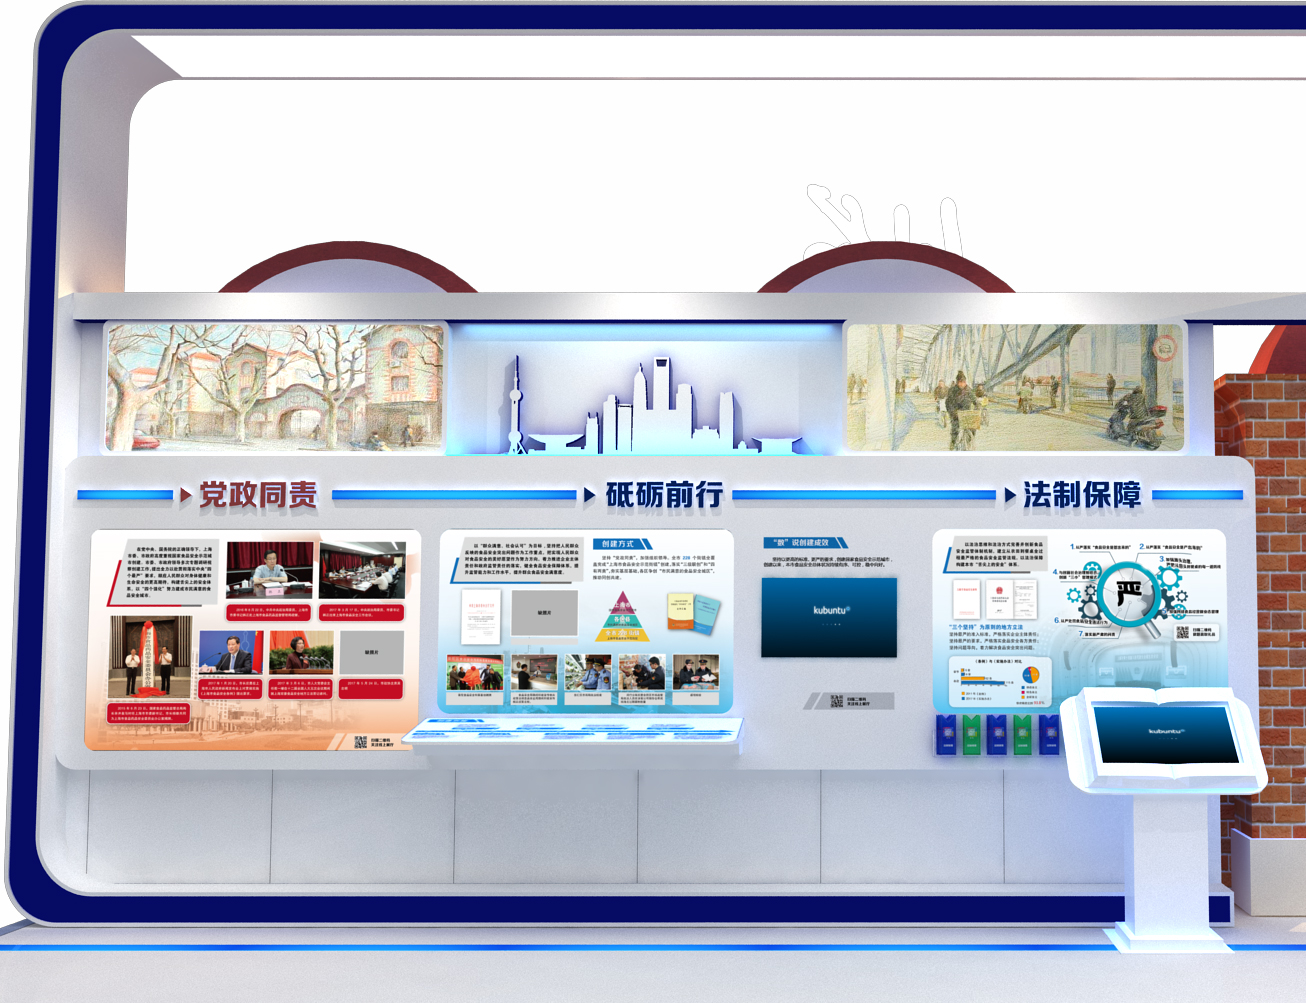
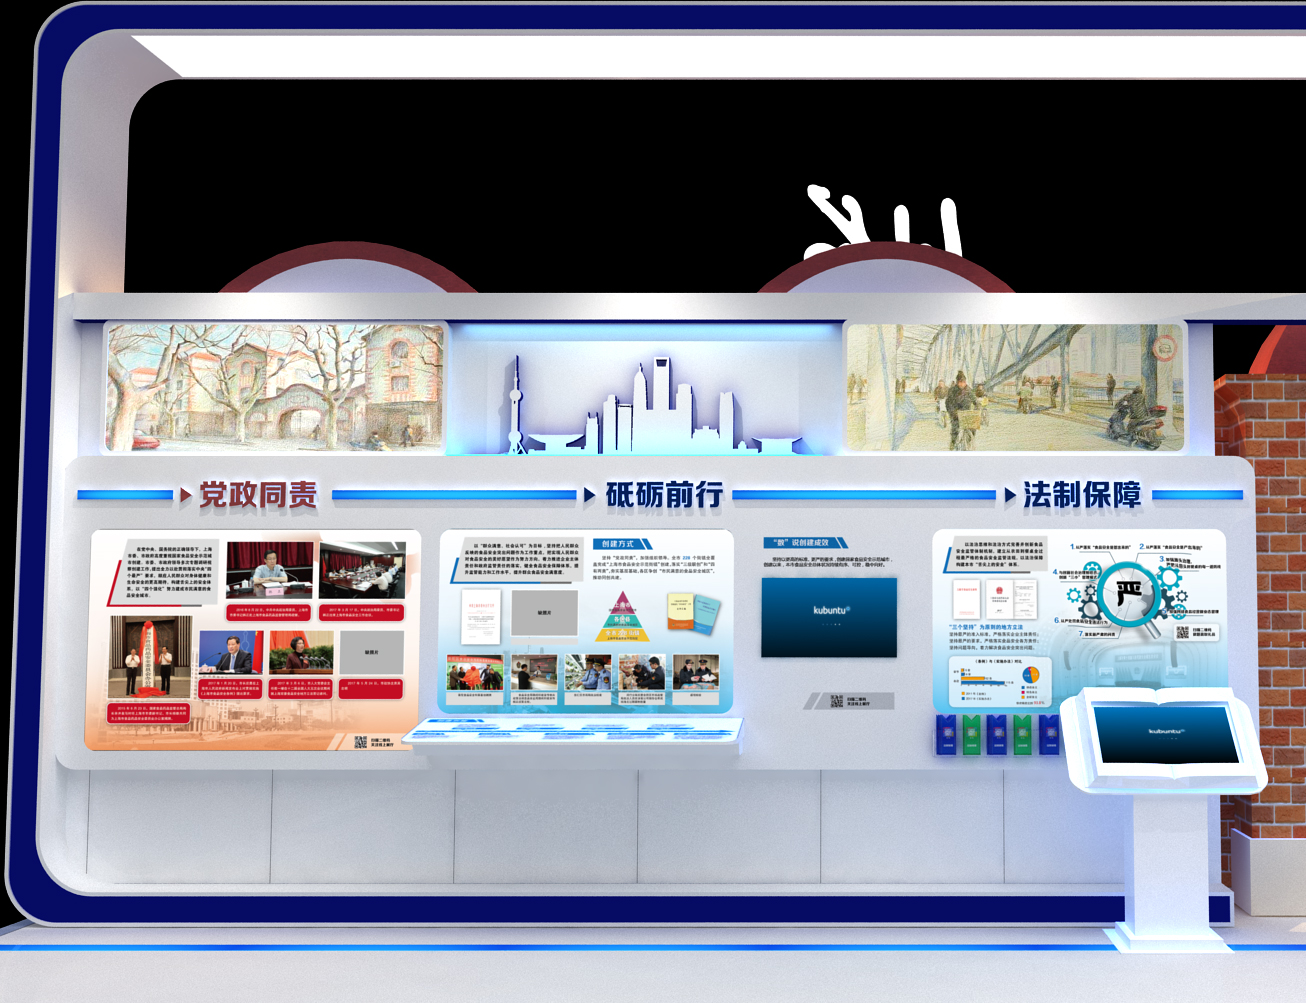
3.5

Changed region(s): [[0.0919, 0.0618, 1.0, 0.3709], [0.0, 0.0, 0.0613, 0.9272]]

diff --git a/shuanganshuangchuangTest/mainCss/main.css b/shuanganshuangchuangTest/mainCss/main.css
@@ -1,0 +1,109 @@
+*{
+    box-sizing: border-box;
+    margin: 0;
+    padding: 0;
+}
+
+
+html {
+    font-size: 16px;
+    height: 100%;
+    font-family: "microsoft yahei";
+    overflow: hidden;
+}
+
+
+.hidden{
+    display: none !important;
+}
+
+.displayFlex{
+    display: -webkit-box;
+    display: -ms-flexbox;
+    display: flex;
+}
+
+.clearFloat:before,.clearFloat:after{
+    display:table;
+    content: "";
+}
+
+.clearFloat:after{
+    clear:both;
+}
+
+a{
+    text-decoration:none;
+    color:inherit;
+}
+
+a:hover{
+    text-decoration:none;
+    color:inherit;
+}
+
+a:active{
+    text-decoration:none;
+    color:inherit;
+}
+
+a:visited{
+    text-decoration:none;
+    color:inherit;
+}
+
+
+
+@media (min-width: 376px) {
+    html {
+        font-size: 18px;
+    }
+}
+
+@media (min-width: 361px) and (max-width: 375px) {
+    html {
+        font-size: 16px;
+
+    }
+}
+
+@media (min-width: 321px) and (max-width: 360px) {
+    html {
+        font-size: 15px;
+
+    }
+}
+
+@media (max-width: 320px) {
+    html {
+        font-size: 13px;
+    }
+}
+
+.partStyle {
+    position: absolute;
+    width: 7rem;
+    height: 7rem;
+    background-color: rgba(0, 110, 246, 0.4);
+    text-align: center;
+    border-radius: 10rem;
+    z-index:100;
+}
+
+.partInnerStyle {
+    position: absolute;
+    width: 6rem;
+    height: 6rem;
+    line-height: 1.5rem;
+    text-align: center;
+    border-radius: 4rem;
+    color: #fff;
+    font-size: 1rem;
+    left: 50%;
+    top: 50%;
+    margin-top: -3rem;
+    margin-left: -3rem;
+    background-color: rgba(0, 110, 246, 1);
+    padding:1.5rem 0;
+    box-sizing: border-box;
+}

diff --git a/shuanganshuangchuangTest/step2.html b/shuanganshuangchuangTest/step2.html
@@ -6,11 +6,16 @@
     <meta name="viewport"
           content="width=device-width,initial-scale=1, minimum-scale=1, maximum-scale=1, user-scalable=no,target-densitydpi=device-dpi"/>
     <title>展台全景图</title>
+    <link rel="stylesheet" href="mainCss/main.css">
     <link rel="stylesheet" href="step2.css">
     <script src="jslib/jquery-1.11.3.min.js"></script>
     <script src="step2.js"></script>
 </head>
 <body>
+<div class="shadowPanel">
+    <img class="shadowImg" src="img/loadingImg.png">
+    <div class="shadowLoading"><span>Loading</span><img src="img/loadingGif.gif"></div>
+</div>
 <div class="mainContainer">
     <div class="mainOutter onShow">
         <div class="imgPart">
@@ -23,6 +28,26 @@
     <div class="mainOutter">
         <div class="imgPart">
             <img id="bgImg2" class="bgImg" src="img/c2.jpg">
+            <div class="point1 pointStyle"></div>
+            <div class="leftArrow arrowStyle"> < </div>
+
+            <div class="rightArrow arrowStyle"> > </div>
+
+        </div>
+    </div>
+    <div class="mainOutter">
+        <div class="imgPart">
+            <img id="bgImg3" class="bgImg" src="img/c3.jpg">
+            <div class="point1 pointStyle"></div>
+            <div class="leftArrow arrowStyle"> < </div>
+
+            <div class="rightArrow arrowStyle"> > </div>
+
+        </div>
+    </div>
+    <div class="mainOutter">
+        <div class="imgPart">
+            <img id="bgImg4" class="bgImg" src="img/c4.jpg">
             <div class="point1 pointStyle"></div>
             <div class="leftArrow arrowStyle"> < </div>
 

diff --git a/shuanganshuangchuangTest/index.css b/shuanganshuangchuangTest/index.css
@@ -1,0 +1,85 @@
+
+body {
+    margin: 0;
+    font-family: "microsoft yahei",Arial,Helvetica,sans-serif;
+    font-size: 14px;
+    line-height: 23px;
+
+    /*background-color:#bbbaba;*/
+    box-sizing: border-box;
+    height:100%;
+    background: url("img/indexBg.png") no-repeat;
+    overflow: hidden;
+    background-position:center bottom;
+    background-size: 80% auto;
+}
+
+.titleImg{
+    display: block;
+    width: 80%;
+    margin: 2rem auto 0;
+}
+
+.exhibition{
+    display: block;
+    width: 80%;
+    margin: 1.5rem auto 0;
+}
+.btnOutter{
+    position: relative;
+    width:17rem;
+    height:6rem;
+
+   margin: 10% auto;
+}
+
+
+#part2{
+    left:10rem;
+}
+
+.animate {
+
+
+    animation: changeSize 2s infinite;
+
+    animation-fill-mode: forwards;
+}
+
+
+@keyframes changeSize {
+    0% {
+        width: 7rem;
+        height: 7rem;
+        margin-left: 0rem;
+        margin-top:0rem
+    }
+    50% {
+        width: 6.5rem;
+        height:6.5rem;
+        margin-left: 0.25rem;
+        margin-top: 0.25rem
+    }
+    100%{
+        width: 7rem;
+        height: 7rem;
+
+    }
+}
+
+/*@keyframes changeSize {*/
+    /*0% {*/
+        /*width: 6.5rem;*/
+        /*height:6.5rem;*/
+        /*margin-left: 0.25rem;*/
+        /*margin-top: 0.25rem*/
+    /*}*/
+    /*100% {*/
+        /*width: 7rem;*/
+        /*height: 7rem;*/
+        /*margin-left: 0rem;*/
+        /*margin-top:0rem*/
+    /*}*/
+
+
+/*}*/

diff --git a/shuanganshuangchuangTest/step2.css b/shuanganshuangchuangTest/step2.css
@@ -1,9 +1,4 @@
-*{
-    box-sizing: border-box;
-}
-html{
-    height:100%;
-}
+
 body {
     margin: 0;
     font-family: "microsoft yahei",Arial,Helvetica,sans-serif;
@@ -14,46 +9,9 @@ body {
     box-sizing: border-box;
     height:100%;
 
+
 }
 
-.hidden{
-    display: none !important;
-}
-
-.displayFlex{
-    display: -webkit-box;
-    display: -ms-flexbox;
-    display: flex;
-}
-
-.clearFloat:before,.clearFloat:after{
-    display:table;
-    content: "";
-}
-
-.clearFloat:after{
-    clear:both;
-}
-
-a{
-    text-decoration:none;
-    color:inherit;
-}
-
-a:hover{
-    text-decoration:none;
-    color:inherit;
-}
-
-a:active{
-    text-decoration:none;
-    color:inherit;
-}
-
-a:visited{
-    text-decoration:none;
-    color:inherit;
-}
 .mainOutter{
     position: absolute;
     left:-100%;
@@ -115,3 +73,29 @@ a:visited{
     top:50%;
 }
 
+.shadowPanel{
+    height:100%;
+    width: 100%;
+
+    background-color: #000;
+    z-index: 1000;
+    overflow: hidden;
+}
+.shadowImg{
+
+    display: block;
+    width:10rem;
+    height:7.5rem;
+    margin:45% auto 0;
+
+}
+.shadowLoading{
+    text-align: center;
+    margin-top:1rem;
+}
+.shadowLoading>img{
+    width:2rem;
+    height:2rem;
+    vertical-align: middle;
+    margin-left: 1rem;
+}

diff --git a/shuanganshuangchuangTest/index.html b/shuanganshuangchuangTest/index.html
@@ -1,0 +1,30 @@
+<!DOCTYPE html>
+<html lang="en">
+<head>
+    <meta charset="UTF-8">
+    <meta name="viewport"
+          content="width=device-width,initial-scale=1, minimum-scale=1, maximum-scale=1, user-scalable=no,target-densitydpi=device-dpi"/>
+    <title>首页</title>
+    <link rel="stylesheet" href="mainCss/main.css">
+    <link rel="stylesheet" href="index.css">
+</head>
+<body>
+
+<img class="titleImg" src="img/indexTitle.png">
+
+
+<img class="exhibition" src="img/exhibition.gif">
+
+
+<div class="btnOutter">
+<div id="part1" class="part1 partStyle animate">
+    <div class="part1Inner partInnerStyle"><a href="../../8.5号活动/agenda/agenda.html">展厅全景<br>展示</a></div>
+</div>
+
+<div id="part2" class="part1 partStyle animate">
+    <div class="part1Inner partInnerStyle"><a href="../../8.5号活动/agenda/agenda.html">食品安全<br>活动</a></div>
+</div>
+</div>
+
+</body>
+</html>
